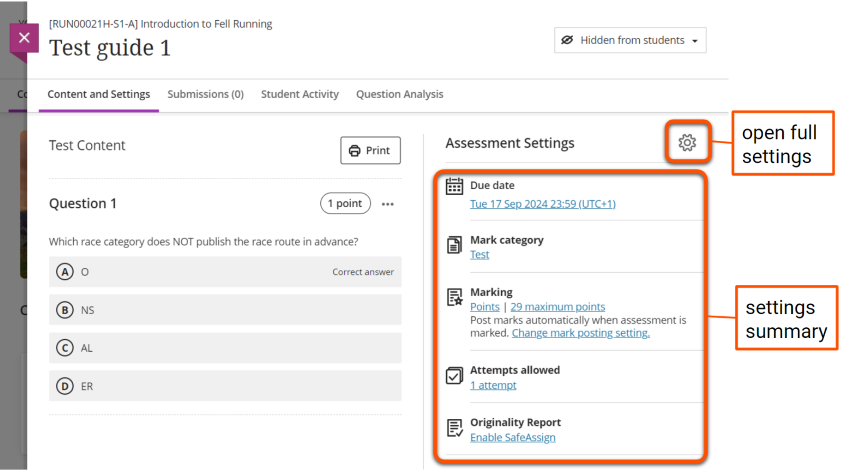
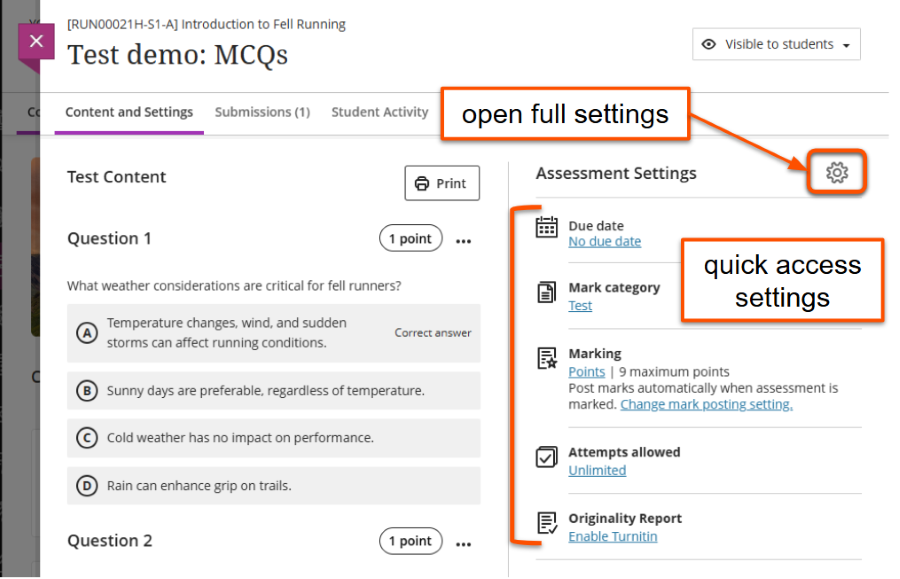
test wip

Changed region(s): [[0.0, 0.0, 1.0, 1.0], [0.6424, 0.0594, 0.9482, 0.1189]]

diff --git a/docs/ultra/test-wip.md b/docs/ultra/test-wip.md
@@ -25,7 +25,7 @@ tags:
 
 !!! Tip
 
-    If your intended usage involves long written answers or file uploads, another tool will be more appropriate.
+    If your intended usage involves long written answers or file uploads, another tool will likely be more appropriate.
 
 !!! Warning
 
@@ -41,7 +41,7 @@ Test has a lot of flexible features, so is useful in many situations, including:
     
     - Very short: 1-3 auto-marked questions only.
     - Check understanding or track completion of specific content.
-    - Can also [add directly within a Document page](../ultra/documents.md#block-knowledge-check)
+    - Can also [add questions directly to a Document page](../ultra/documents.md#block-knowledge-check)
 
 
 -   **Practice quiz**
@@ -53,7 +53,7 @@ Test has a lot of flexible features, so is useful in many situations, including:
     - No specific time to complete.
     - Unlimited attempts.
 
--   **Summative quiz**
+-   **Low-stakes summative quiz**
 
     ---
 
@@ -265,7 +265,7 @@ You can build and trial the Test in your personal Ultra sandpit site, and when i
 
 !!! Tip
 
-    Don't use *Essay* type questions for practice quizzes or other Tests that need automatic mark return, as students can't see any Test results until the Essay questions are manually marked.
+    Don't use *Essay* type questions for practice quizzes or other Tests that need automatic mark return. Essay questions must be manually marked before scores are visible for any question in the Test.
 
 ### Question types
 
@@ -389,7 +389,7 @@ There are multiple ways to add questions to a Test. Which method is most appropr
     4. Click **Copy questions**.
     5. Once the copy is processed, review the status message for any errors.
 
-??? Abstract "Question pools"
+??? Abstract "Question pools (to draw a random subset of questions)"
  
     Build a [question pool to randomly draw a subset from in each Test attempt](#randomisation). Choose from questions that already appear in another Test or Question Bank in the site.
     
@@ -414,7 +414,7 @@ There are multiple ways to add questions to a Test. Which method is most appropr
     </div>
     </div>
 
-### Download paper and answer key
+### Download question paper
 
 You can print or download your Test as a PDF, along with an automatically-generated answer key. This could be useful for archiving and sharing with external examiners, reviewers etc.
 
@@ -433,34 +433,50 @@ To print or save a Test:
 
 ## Settings
 
-### Releasing marks/results/answers etc.
+!!! Warning
 
-maybe a table with recommended settings for different uses?
+    Very specific settings are required for **formal exams** using Test. You **must** [contact us](mailto:vle-support@york.ac.uk) well in advance to set up these up correctly. This guide should not be considered sufficient guidance for this use case.
 
-### SSP accommodations
+Open the full assessment settings by clicking the **cog icon** at the top of the **Assessment settings** panel next to test content. This panel also includes key quick-access settings.
 
-SSP deadline extensions or extra time allowances must be applied for summative Tests, and for formal formative tests. See our [Accommodations for SSPs guide](../ultra/accommodations.md) for details of how to apply these for your site or Test.
+![Test content page with Assessment Settings panel on right side. Quick access settings: due date, mark category, marking (points and posting), attempts allowed, Originality Report](images/test-settings.png)
 
-### General settings
+### Considering appropriate settings
 
+There are many possible Test settings. This section explains the different settings to guide you to choose the appropriate settings for your specific use case. See below for suggested settings for some example use cases. 
 
+#### Details & Information (Due date)
 
-- time limit - really needed?
-- deadline - allow enough time
+**Key consideration: Does your Test need a due date?**
 
+A due date is only recommended for low-stakes summative quizzes that must be completed by a specific date.
 
+Other use cases do not require a due date.
 
-There are various settings possible for Tests, including;
+=== "Settings: no due date"
 
-- due date and attempt management
-- randomising the order of pages, questions and answers
-- how marks and feedback are presented to students
+    - Due date: tick *No due date*
+    - The next two options are not available
+    - *Allow class conversations*: leave unticked
 
-Edit key settings such as due date directly in the **Assessment settings** panel, or click the **cog icon** to open the full Test settings.
+=== "Settings: with due date"
 
-![decorative](images/test-settings.png)
+    <div markdown class="grid">
+    <div markdown>
 
-=== "Knowledge check"
+    - *Due date*: enter a due date and time (during core work hours) for low-stakes summative quizzes if required.
+    - *Prohibit late submissions*: [optional] tick to automatically submit any in-progress attempts at the deadline (Note: this doesn't prevent new attempts after the deadline).
+    - *Prohibit new attempts after due date*: do not tick; student must be able to submit late. tick to prevent new attempts after the deadline. ????????
+    - *Allow class conversations*: leave unticked
+    </div>
+    ![Details & Information settings panel: described in text](images/test-settings-details-and-information.png)
+    </div>
+
+### Suggested settings for example use cases
+
+This section summarises the important settings for some key example use cases. See the section above for explanation of when it's appropriate to use specific settings.
+
+??? Abstract "Knowledge check"
 
     **Suggested settings**
     
@@ -478,7 +494,7 @@ Edit key settings such as due date directly in the **Assessment settings** panel
     - Description: add an optional short description to display under the item's name in the Course Content area.
     - Leave all other settings unticked or as the default.
 
-=== "Practice quiz"
+??? Abstract "Practice quiz"
 
     !!! Tip
 
@@ -502,11 +518,30 @@ Edit key settings such as due date directly in the **Assessment settings** panel
     - Description: add an optional short description to display under the item's name in the Course Content area.
     - Leave all other settings unticked or as the default.
     
-=== "Formal exam"
+??? Abstract "Formal exam"
 
     It's essential that settings are correct for formal exams. This will depend on the structure of your Test and other requirements.
     
     [Contact us](mailto:vle-support@york.ac.uk) to advise on appropriate settings for your specific exam.
+
+---
+
+- time limit - really needed?
+- deadline - allow enough time
+
+### SSP accommodations
+
+<div markdown class="grid">
+<div markdown>
+SSP deadline extensions or extra time allowances must be applied for summative Tests and for formal formative tests.
+
+See our [Accommodations for SSPs guide](../ultra/accommodations.md) for instructions on how to do this.
+</div>
+<figure markdown>
+![Purple flag icon next to student name in class register](images/accommodations-flag.png)
+<figcaption>Flag denoting time limit accommodation</figcaption>
+</figure>
+</div>
 
 ## Marking & results
 
@@ -542,7 +577,7 @@ Students can be allowed to view various aspects of Test results. The use case fo
 Some considerations when using these settings:
 
 - If the Test includes any *Essay* type questions, these must be manually marked **before** students can view any scores, regardless of when scores are released. Don't use this question type if the Test won't be manually marked.
-- *Automated feedback* (auto-marked questions) and *Example of correct response* (essay questions) will only be shown if this has been added to the Test questions.
+- *Automated feedback* (auto-marked questions) and *Example of correct response* (essay questions) are only shown if this has been added to the Test questions.
 - It is not possible to show correct answers to auto-marked questions without showing example of correct response for essay questions (and vice versa).
 
 ??? Abstract "What students see: MCQs"
